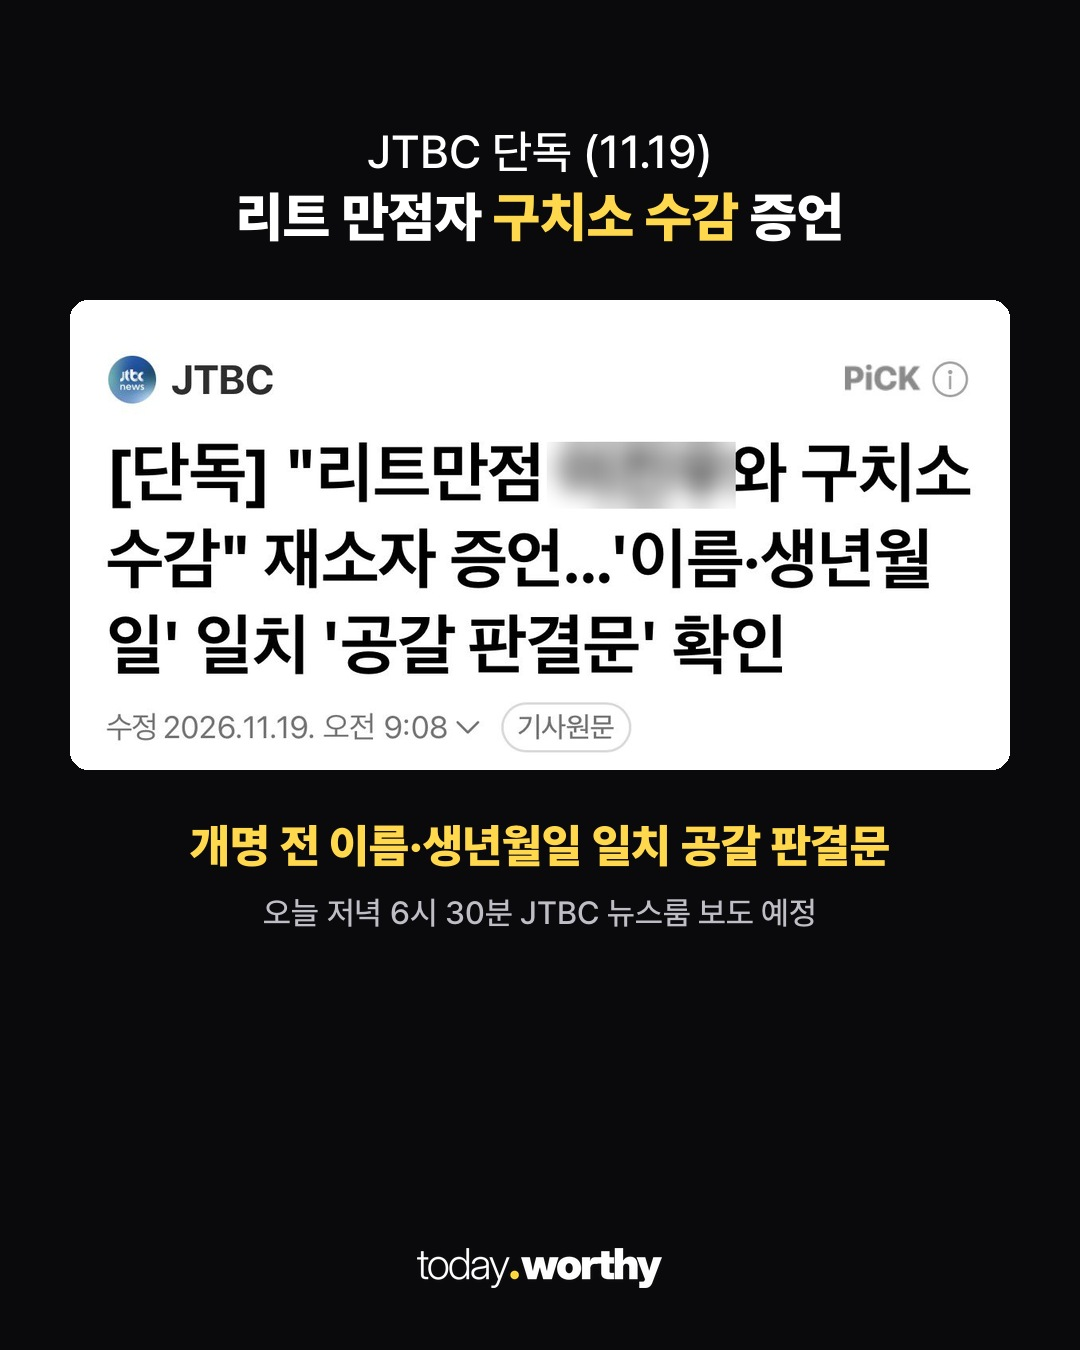
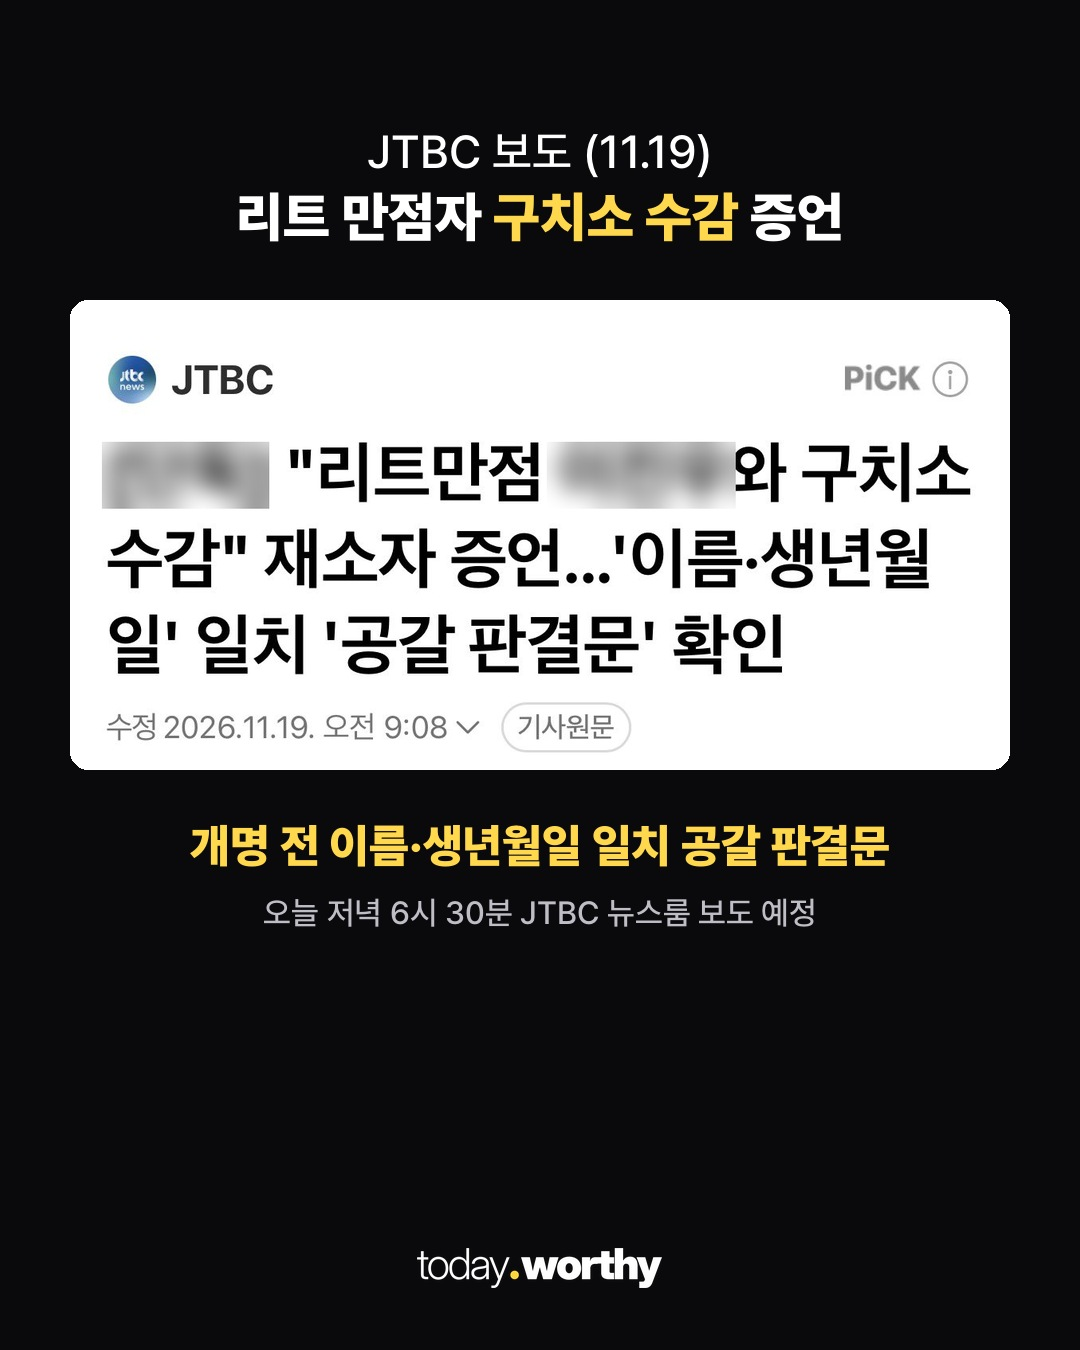
leetjail: 노쇼 추가, 단독 문구 빼고 표지 구치소 사진 나란히(승인 대기, 승인 전 게시 금지)
Claude-Session: https://claude.ai/code/session_01FGsw5SxBSM2MD7US2amqEo

Changed region(s): [[0.0917, 0.3111, 0.275, 0.4044], [0.4583, 0.0933, 0.55, 0.1244]]

diff --git a/media/20261119-leetjail/build_cards.py b/media/20261119-leetjail/build_cards.py
@@ -1,4 +1,4 @@
-"""20261119-leetjail(속보): JTBC 단독(11.19 09:08) 리트 만점자 구치소 수감 재소자 증언·개명 전 이름·생년월일 일치 공갈 판결문. 실명·개명 전 이름 안 씀.
+"""20261119-leetjail(속보): JTBC(11.19 09:08) 리트 만점자 구치소 수감 재소자 증언·개명 전 이름·생년월일 일치 공갈 판결문. 실명·개명 전 이름 안 씀.
 근거: 사용자 제공 JTBC 기사 캡처(제목·요약·첫 문단). 따옴표는 기사에 실린 증언만. sidae/build_cards.py 복사."""
 import json, re, subprocess, sys
 from pathlib import Path
@@ -66,13 +66,22 @@ def panel(rows, h=640, gap=None):
 
 
 cap = op("jtbc.jpg").crop((0, 0, 1179, 590))
-nm = (598, 178, 835, 262)  # 제목 속 실명 가림
-cap.paste(cap.crop(nm).filter(ImageFilter.GaussianBlur(14)), nm[:2])
+for nm in ((598, 178, 835, 262), (40, 178, 250, 262)):  # 제목 속 실명·'[단독]' 가림
+    cap.paste(cap.crop(nm).filter(ImageFilter.GaussianBlur(14)), nm[:2])
 cap = cap.resize((940, round(590 * 940 / 1179)), Image.LANCZOS)
-frame(("JTBC 단독 (11.19)", "리트 만점자 '구치소 수감' 증언"), cap,
+frame(("JTBC 보도 (11.19)", "리트 만점자 '구치소 수감' 증언"), cap,
       "개명 전 이름·생년월일 '일치' 공갈 판결문", "오늘 저녁 6시 30분 JTBC 뉴스룸 보도 예정").save(O / "c02.jpg", quality=93)
 frame(("함께 수감됐다는 재소자", "\"사기로 돈 모아 '학습교재'\""),
-      panel([("구치소 동료 증언", "\"사기로 돈 모아 '학습교재' 만든다고 했다\""), ("판결문", "개명 전 이름·생년월일 '일치'"), ("재판 결과", "집행유예 두 달 뒤 '동종 범죄'로 징역형"), ("오늘", "수능 국어 '공개 풀이' 예고")], h=640),
+      panel([("구치소 동료 증언", "\"사기로 돈 모아 '학습교재' 만든다고 했다\""), ("판결문", "개명 전 이름·생년월일 '일치'"), ("재판 결과", "집행유예 두 달 뒤 '동종 범죄'로 징역형"), ("오늘 공개 풀이", "끝내 '노쇼'")], h=640),
       "본인 측 입장은 아직 확인되지 않았습니다", "JTBC(11.19)").save(O / "c03.jpg", quality=93)
-fit(op("lee_photo.jpg"), W, H, (.5, .2)).save(O / "cover_bg.jpg", quality=95)
+noshow = op("noshow.jpg").crop((0, 0, 1206, 735))
+for b in ((470, 120, 830, 180), (0, 575, 1206, 700)):  # 현수막·하단 안내문 속 실명 가림
+    noshow.paste(noshow.crop(b).filter(ImageFilter.GaussianBlur(12)), b[:2])
+frame(("오늘 예고했던 수능 국어 공개 검증", "결국 '노쇼'"), fit(noshow, 940, 560, (.5, .5)),
+      "시험지 배부 때까지 '불참', 검증 무효", "전날부터 휴대전화 꺼져, 주최 측은 경찰에 신변 확인 요청").save(O / "c04.jpg", quality=93)
+# 표지: 본인 사진 | 구치소(수용자) 사진 나란히, 꽉 채움
+cv = Image.new("RGB", (W, H))
+cv.paste(fit(op("lee_photo.jpg"), W // 2, H, (.5, .2)), (0, 0)); cv.paste(fit(op("prison.jpg"), W // 2, H, (.5, .5)), (W // 2, 0))
+ImageDraw.Draw(cv).rectangle((W // 2 - 3, 0, W // 2 + 2, H), fill=(10, 10, 12))
+cv.save(O / "cover_bg.jpg", quality=95)
 print("ok")
